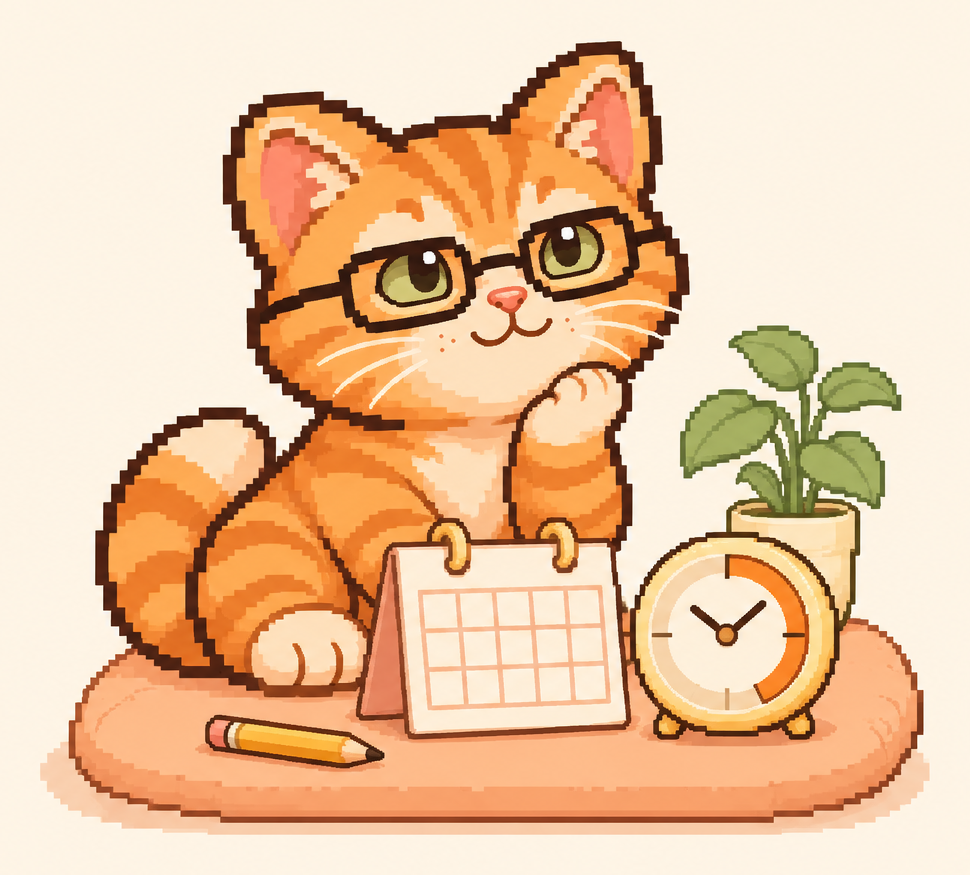
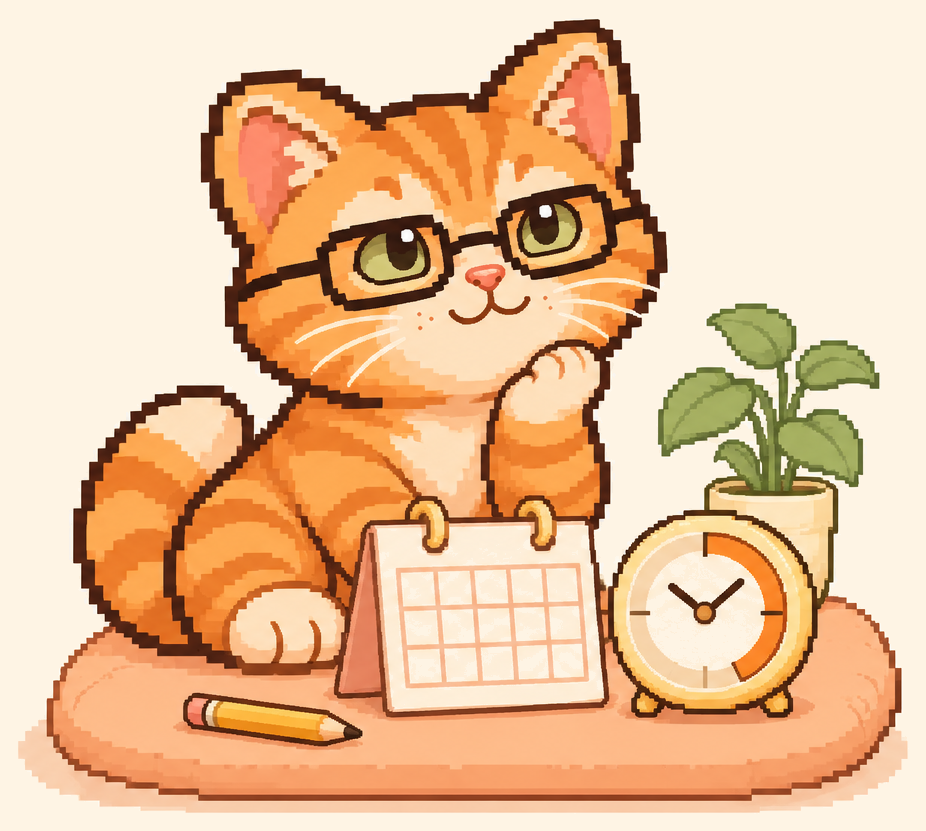
Scale the home illustration down beside the text.
The kitten crop is tighter and about 440 px wide, so the heading sits closer to the header and the first screen no longer stretches around a large picture.

diff --git a/src/index.css b/src/index.css
@@ -476,10 +476,10 @@ html[data-theme='dark'] {
 
 .home-hero {
   display: grid;
-  grid-template-columns: minmax(420px, 1fr) minmax(440px, 520px);
+  grid-template-columns: minmax(0, 1fr) minmax(0, 1fr);
   align-items: center;
-  column-gap: 56px;
-  padding: 64px 0;
+  column-gap: 48px;
+  padding: 32px 0 40px;
 }
 
 .home-copy h1 {
@@ -530,13 +530,13 @@ html[data-theme='dark'] {
 
 .home-art {
   display: flex;
-  justify-content: flex-end;
+  justify-content: flex-start;
 }
 
 .home-art img {
-  width: min(100%, 520px);
+  width: min(100%, 440px);
   height: auto;
-  aspect-ratio: 970 / 875;
+  aspect-ratio: 926 / 831;
 }
 
 .home-day {
@@ -763,8 +763,8 @@ html[data-theme='dark'] {
 
   .home-hero {
     grid-template-columns: 1fr;
-    row-gap: 24px;
-    padding: 32px 0;
+    row-gap: 16px;
+    padding: 24px 0 32px;
   }
 
   .home-copy h1 {
@@ -789,7 +789,8 @@ html[data-theme='dark'] {
   .home-art img {
     width: auto;
     max-width: 100%;
-    height: 270px;
+    height: auto;
+    max-height: 280px;
   }
 
   .home-day > h2 {

diff --git a/src/components/LandingPage.tsx b/src/components/LandingPage.tsx
@@ -84,7 +84,7 @@ export function LandingPage({
             <AppLink href={enter} className="home-enter">Зайти в свой планер</AppLink>
           </div>
           <div className="home-art">
-            <img src="/cover/today-cat-hero.png" alt="" width={970} height={875} />
+            <img src="/cover/today-cat-hero.png" alt="" width={926} height={831} />
           </div>
         </section>
         <section className="home-day" aria-labelledby="home-day-title">
